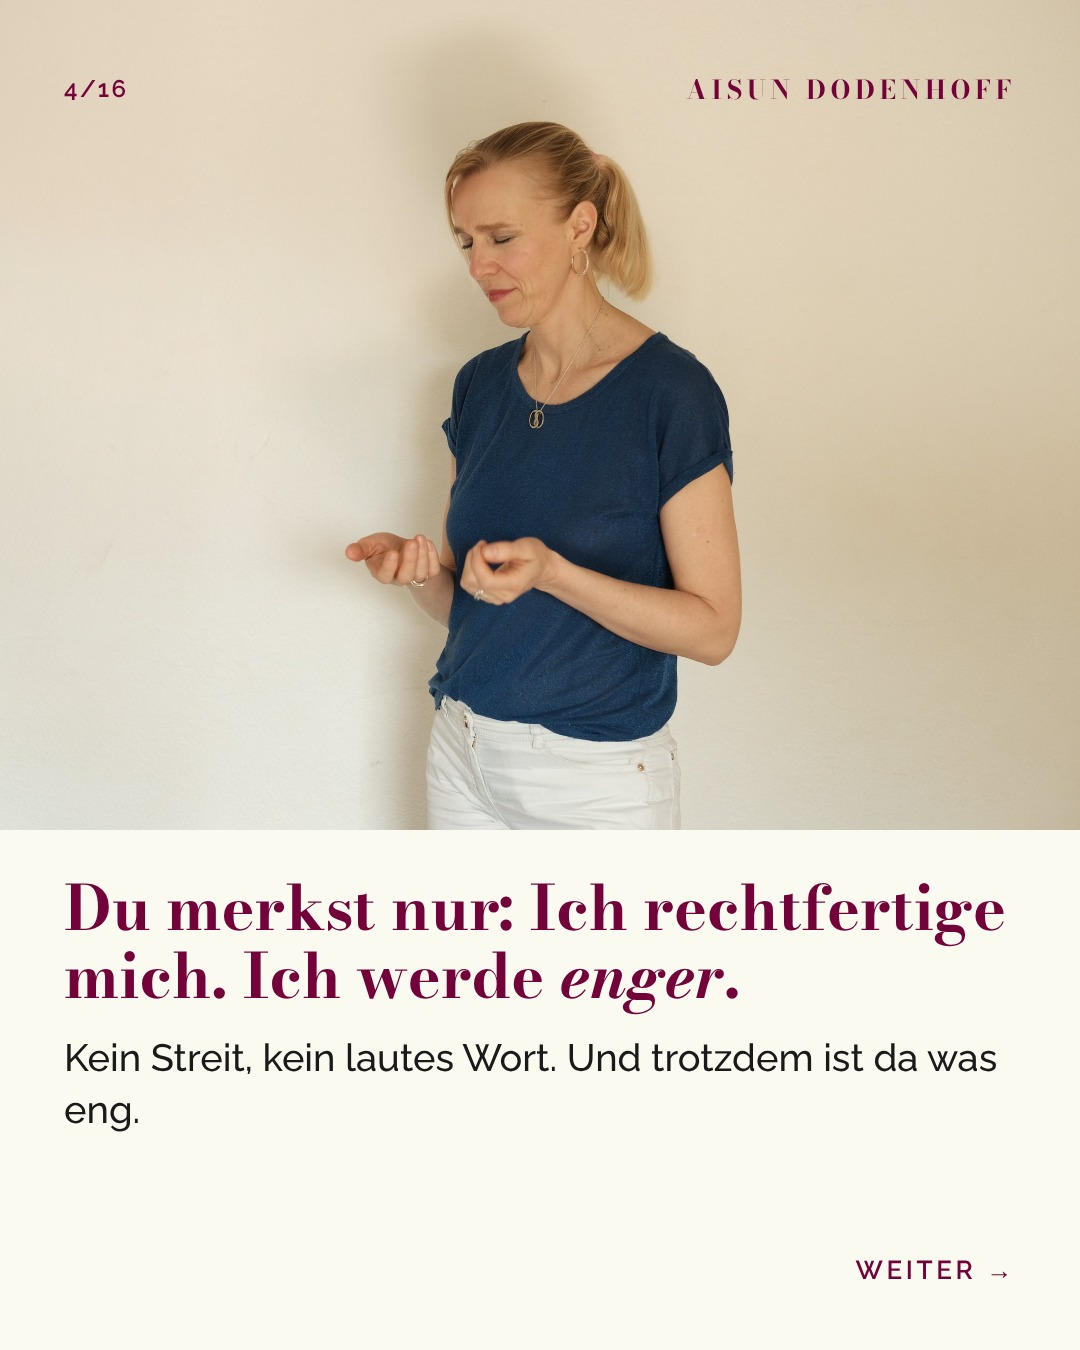
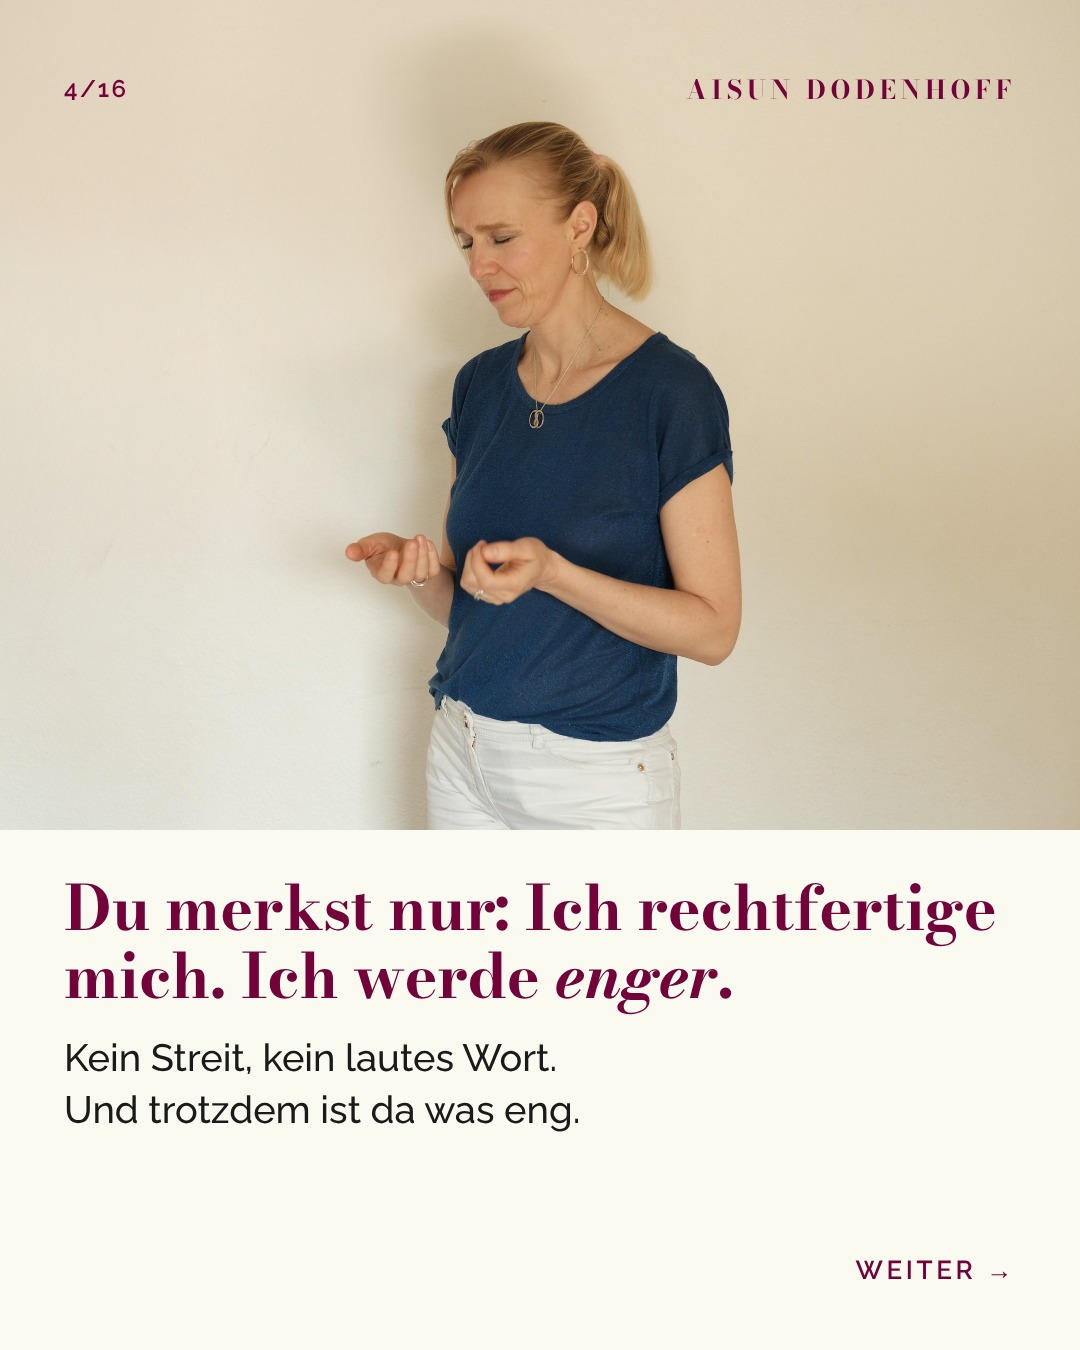
Toxisch-Karussell: fertige Slides, Cockpit

Changed region(s): [[0.0611, 0.6533, 0.9472, 0.84], [0.1222, 0.7156, 0.1833, 0.7467]]

diff --git a/content/entwuerfe/toxisch-karussell/gen.py b/content/entwuerfe/toxisch-karussell/gen.py
@@ -15,12 +15,13 @@ def arrow(x1,y1,x2,y2,c,w=6):
 def G(n):
     s=''
     if n==1:
-        s+=f'<rect x="170" y="130" width="740" height="240" rx="40" fill="{BE}" stroke="{GO}" stroke-width="8"/><text x="540" y="290" text-anchor="middle" font-family="Bodoni Moda" font-weight="600" font-size="96" fill="{CR}" letter-spacing="4">KONTROLLE</text>'
-        s+=pill(540,480,'Sorge ist die Maske',GO,DK,size=40)+pill(540,590,'Dahinter: Kontrolle',BE,CR,size=40)
+        s+='<g transform="translate(0,-70)">'
+        s+=f'<rect x="170" y="130" width="740" height="240" rx="40" fill="{BE}" stroke="{GO}" stroke-width="8"/><text x="540" y="290" text-anchor="middle" font-family="Bodoni Moda" font-weight="700" font-size="96" fill="{CR}" letter-spacing="4">KONTROLLE</text>'
+        s+=pill(540,480,'Sorge ist die Maske',GO,DK,size=40)+pill(540,590,'Dahinter: Kontrolle',BE,CR,size=40)+'</g>'
     if n==2:
         s+=f'<rect x="290" y="50" width="30" height="580" rx="10" fill="{BE}"/><rect x="760" y="50" width="30" height="580" rx="10" fill="{BE}"/>'
         s+=person(540,190,1.7,SA,GO)
-        s+=pill(150,200,'Druck',BE,CR,size=38)+pill(930,200,'Schuld',BE,CR,size=38)
+        s+=pill(150,200,'Druck',BE,CR,size=38)+pill(915,200,'Schuld',BE,CR,size=38)
         for y in (300,470): s+=arrow(110,y,270,y,BE)+arrow(970,y,810,y,BE)
         s+=pill(540,620,'Erklären müssen',BE,CR,size=38)
     if n==3:
@@ -29,19 +30,21 @@ def G(n):
         s+='<path d="M540 365 C500 330 480 300 505 280 C525 262 540 280 540 292 C540 280 555 262 575 280 C600 300 580 330 540 365Z" fill="'+GO+'"/>'
         s+=pill(540,90,'Nähe',BE,CR,size=40)+pill(540,610,'und trotzdem frei',GO,DK,size=40)
     if n==4:
-        cx,cy=400,350
-        for r,sw,c in ((90,3,BE),(150,3,BE),(210,3,BE),(270,9,GO),(330,3,BE)): s+=f'<circle cx="{cx}" cy="{cy}" r="{r}" fill="none" stroke="{c}" stroke-width="{sw}"/>'
-        s+=person(cx,cy-60,1.0,SA,GO)
+        cx,cy=310,350
+        rs=(60,105,150,195,240)
+        for k,r in enumerate(rs): s+=f'<circle cx="{cx}" cy="{cy}" r="{r}" fill="none" stroke="{GO if k==3 else BE}" stroke-width="{9 if k==3 else 3}"/>'
+        for k,r in enumerate(rs):
+            if k>0: s+=f'<text x="{cx}" y="{cy-r+31}" text-anchor="middle" font-family="Raleway" font-weight="700" font-size="26" fill="{DK if k==3 else BE}">{k+1}</text>'
+        s+=person(cx,cy-34,0.7,SA,GO,4)+f'<text x="{cx}" y="{cy-50-0}" text-anchor="middle" font-family="Raleway" font-weight="700" font-size="1" fill="{BE}"></text>'
         labs=['1 Sehen','2 Begegnen · gesund','3 Benutzen','4 Kontrollieren','5 Übernahme']
         for i,l in enumerate(labs):
-            y=120+i*105; hi=(i==3)
-            s+=pill(860,y,l,GO if hi else BE,DK if hi else CR,w=380,size=34)
-            s+=f'<line x1="{cx+ (90,150,210,270,330)[i]*.72:.0f}" y1="{cy-(90,150,210,270,330)[i]*.72:.0f}" x2="670" y2="{y}" stroke="{GO if hi else BE}" stroke-width="{4 if hi else 2}" opacity="{1 if hi else .55}"/>'
+            y=130+i*110; hi=(i==3)
+            s+=pill(810,y,l,GO if hi else BE,DK if hi else CR,w=420,size=36)
     if n==5:
         s+=person(210,260,1.8,SA,GO)+person(860,260,1.5,"#E7B7BB",BE)
         for k in range(14):
             a=k/14*2*math.pi; s+=f'<circle cx="{860+135*math.cos(a):.0f}" cy="{330+135*math.sin(a):.0f}" r="8" fill="none" stroke="{BE}" stroke-width="3"/>'
-        s+=arrow(340,330,690,360,GO)
+        s+=f'<rect x="770" y="330" width="44" height="80" rx="9" fill="{BE}"/><rect x="776" y="340" width="32" height="56" rx="4" fill="{CR}"/>'+arrow(340,330,690,360,GO)
         s+=pill(510,215,'Wo bist du?',CR,BE,size=36,stroke=GO)
         s+=pill(210,560,'Ich',GO,DK,size=36)+pill(860,560,'Partner',BE,CR,size=36)+pill(540,660,'Kontrolliere ich auch?',GO,DK,size=40)
     if n==6:
@@ -77,18 +80,20 @@ body{font-family:Raleway,sans-serif;position:relative;background:#FBFAF0}
 .n{position:absolute;top:74px;left:64px;font:600 24px Raleway;letter-spacing:.1em;z-index:5}
 .ph{position:absolute;left:0;top:0;width:1080px;height:830px;background-size:cover;background-repeat:no-repeat}
 .pan{position:absolute;left:0;right:0;top:830px;bottom:0;padding:44px 64px 0}
-.pan h2{font:700 62px/1.1 'Bodoni Moda',serif;font-variation-settings:'opsz' 11}
+.pan h2{font:700 62px/1.1 'Bodoni Moda',serif;font-variation-settings:'opsz' 11;font-kerning:normal;text-rendering:optimizeLegibility;letter-spacing:-.005em;text-wrap:balance}.w{margin-right:-.09em}.pan h2.big{font-size:76px}.pan p{text-wrap:balance}
 .pan p{font:500 38px/1.35 Raleway;margin-top:22px}
 .c{background:#FBFAF0;color:#73013A}.c p{color:#1A1A1A}.c em{color:#73013A;font-style:italic}
 .b{background:#73013A;color:#FBFAF0}.b em{color:#C6A764;font-style:italic}.b p{color:#FBFAF0}
 .kw{display:inline-block;background:linear-gradient(115deg,#a88a4c,#C6A764 30%,#efe2bf 50%,#C6A764 70%,#9d7f43);color:#1A1A1A;padding:2px 22px;border-radius:999px;letter-spacing:.08em}
-.gs{background:#FBFAF0}.gs h2{position:absolute;left:64px;right:64px;top:150px;font:700 62px/1.1 'Bodoni Moda',serif;color:#73013A;font-variation-settings:'opsz' 11}
+.gs{background:#FBFAF0}.gs h2{position:absolute;left:64px;right:64px;top:150px;font:700 62px/1.1 'Bodoni Moda',serif;color:#73013A;font-variation-settings:'opsz' 11;font-kerning:normal;text-rendering:optimizeLegibility;letter-spacing:-.005em;text-wrap:balance}
 .gs em{font-style:italic;color:#73013A;text-decoration:underline;text-decoration-color:#C6A764;text-decoration-thickness:6px;text-underline-offset:8px}
-.gs .svg{position:absolute;left:0;top:420px}
-.gs p{position:absolute;left:64px;right:64px;top:1150px;font:500 38px/1.35 Raleway;color:#1A1A1A}
+.gs .svg{position:absolute;left:0;top:380px}
+.gs p{position:absolute;left:64px;right:64px;bottom:160px;text-wrap:balance;font:500 38px/1.35 Raleway;color:#1A1A1A}
 .sw{position:absolute;bottom:64px;right:64px;font:600 26px Raleway;letter-spacing:.14em;z-index:5}"""
 head='<!doctype html><html lang="de"><head><meta charset="utf-8"><link href="https://fonts.googleapis.com/css2?family=Bodoni+Moda:ital,opsz,wght@0,6..96,400..800;1,6..96,400..800&family=Raleway:ital,wght@0,500;0,600;0,700;1,500&display=swap" rel="stylesheet"><style>'+css+'</style></head><body>'
 D='/tmp/claude-0/-home-user-ceo-table/98fccc0b-51e2-52b4-9177-97ef7eb9be37/scratchpad/ts'
+import re
+fix=lambda x: re.sub(r'(?<![A-Za-z>])W(?=[a-zäöü])','<span class="w">W</span>',x)
 tot=len(S)
 for i,s in enumerate(S,1):
     sw='<div class="sw" style="color:%s">WEITER →</div>'
@@ -98,10 +103,10 @@ for i,s in enumerate(S,1):
         x0=max(0,min(2400-2033,cx*1.2-1016));pos=-x0*1080/2033
         bg=f"background-image:url(file://{P}{f}.jpg);background-size:{2400*1080/2033:.0f}px auto;background-position:{pos:.0f}px 0"
         dark=pn=='b'
-        body=f'<div class="ph" style="{bg}"></div><div class="pan {pn}"><h2>{h}</h2>'+(f'<p>{sm}</p>' if sm else '')+'</div>'
+        body=f'<div class="ph" style="{bg}"></div><div class="pan {pn}"><h2{' class="big"' if not sm else ''}>{fix(h)}</h2>'+(f'<p>{sm}</p>' if sm else '')+'</div>'
         body+='<div class="brand" style="color:#73013A">AISUN DODENHOFF</div><div class="n" style="color:#73013A">%d/%d</div>'%(i,tot)
         body+=(sw%('#FBFAF0' if dark else '#73013A') if i<tot else '')
     else:
         _,n,h,sm=s
-        body=f'<div class="gs"><h2>{h}</h2><div class="svg">{G(n)}</div>'+(f'<p>{sm}</p>' if sm else '')+'</div><div class="brand" style="color:#73013A">AISUN DODENHOFF</div><div class="n" style="color:#73013A">%d/%d</div>'%(i,tot)+(sw%'#73013A')
+        body=f'<div class="gs"><h2>{fix(h)}</h2><div class="svg">{G(n)}</div>'+(f'<p>{sm}</p>' if sm else '')+'</div><div class="brand" style="color:#73013A">AISUN DODENHOFF</div><div class="n" style="color:#73013A">%d/%d</div>'%(i,tot)+(sw%'#73013A')
     open(f'{D}{i:02d}.html','w').write(head+body+'</body></html>')

diff --git a/protokolle/2026-11-17.md b/protokolle/2026-11-17.md
@@ -3,3 +3,4 @@
 - Automatischer Morgenlauf. Cockpit geprüft: keine neu beantworteten Fragen, keine ungelesenen Gespräche, keine neuen Aufträge.
 - Offene Fragen, die auf Aisun warten: f16, f32, f35, f36.
 - Briefing mit den fünf wichtigsten Punkten aktualisiert. Keine Agentinnen gestartet.
+- 17.11.: Toxisch-Karussell (16 Slides, Reel-Grafiken nachgebaut, 10 Fotos) von Sina/Greta/Petra, Cockpit-Karte toxisch-karussell-kontrolle.
